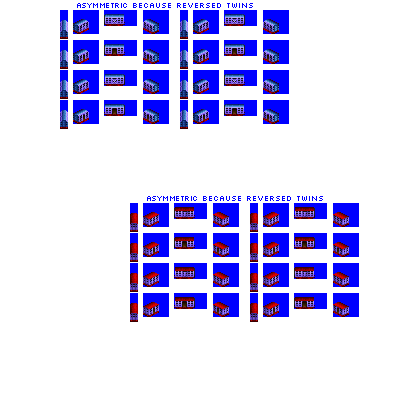
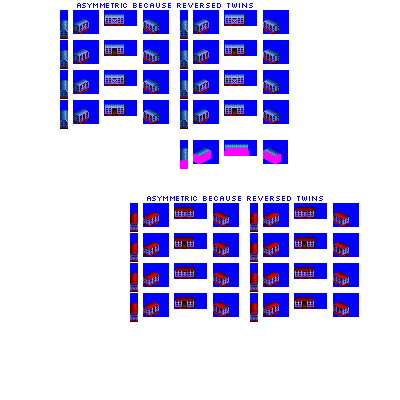
Change: WIP to add express livestock cars

diff --git a/src/vehicles/pony/livestock_express_cars_pony.py b/src/vehicles/pony/livestock_express_cars_pony.py
@@ -1,0 +1,153 @@
+from train.factory import ModelDef
+
+
+def main(**kwargs):
+    result = []
+
+    # --------------- standard gauge ---------------------------------------------------------------
+
+    model_def = ModelDef(
+        class_name="LivestockExpressCar",
+        base_numeric_id=26370,
+        gen=1,
+        subtype="A",
+        sprites_complete=False,
+    )
+
+    model_def.add_unit_def(
+        class_name="ExpressCarUnit",
+        suppress_roof_sprite=True,  # non-standard roof for this wagon
+        chassis="2_axle_filled_16px",
+    )
+
+    result.append(model_def)
+
+    model_def = ModelDef(
+        class_name="LivestockExpressCar",
+        base_numeric_id=33000,
+        gen=2,
+        subtype="A",
+        sprites_complete=False,
+    )
+
+    model_def.add_unit_def(
+        class_name="ExpressCarUnit",
+        suppress_roof_sprite=True,  # non-standard roof for this wagon
+        chassis="2_axle_filled_16px",
+    )
+
+    result.append(model_def)
+
+    model_def = ModelDef(
+        class_name="LivestockExpressCar",
+        base_numeric_id=30610,
+        gen=2,
+        subtype="B",
+        sprites_complete=False,
+    )
+
+    model_def.add_unit_def(
+        class_name="ExpressCarUnit",
+        suppress_roof_sprite=True,  # non-standard roof for this wagon
+        chassis="3_axle_solid_express_24px",
+    )
+
+    result.append(model_def)
+
+    model_def = ModelDef(
+        class_name="LivestockExpressCar",
+        base_numeric_id=31060,
+        gen=3,
+        subtype="A",
+        sprites_complete=False,
+    )
+
+    model_def.add_unit_def(
+        class_name="ExpressCarUnit",
+        suppress_roof_sprite=True,  # non-standard roof for this wagon
+        chassis="2_axle_filled_16px",
+    )
+
+    result.append(model_def)
+
+    model_def = ModelDef(
+        class_name="LivestockExpressCar",
+        base_numeric_id=31810,
+        gen=3,
+        subtype="B",
+        sprites_complete=False,
+    )
+
+    model_def.add_unit_def(
+        class_name="ExpressCarUnit",
+        suppress_roof_sprite=True,  # non-standard roof for this wagon
+        chassis="3_axle_solid_express_24px",
+    )
+
+    result.append(model_def)
+
+    model_def = ModelDef(
+        class_name="LivestockExpressCar",
+        base_numeric_id=31960,
+        gen=4,
+        subtype="A",
+        sprites_complete=False,
+    )
+
+    model_def.add_unit_def(
+        class_name="ExpressCarUnit",
+        suppress_roof_sprite=True,  # non-standard roof for this wagon
+        chassis="2_axle_filled_16px",
+    )
+
+    result.append(model_def)
+
+    model_def = ModelDef(
+        class_name="LivestockExpressCar",
+        base_numeric_id=32090,
+        gen=4,
+        subtype="B",
+        sprites_complete=False,
+    )
+
+    model_def.add_unit_def(
+        class_name="ExpressCarUnit",
+        suppress_roof_sprite=True,  # non-standard roof for this wagon
+        chassis="2_axle_filled_24px",
+    )
+
+    result.append(model_def)
+
+    model_def = ModelDef(
+        class_name="LivestockExpressCar",
+        base_numeric_id=34610,
+        gen=5,
+        subtype="B",
+        sprites_complete=False,
+    )
+
+    model_def.add_unit_def(
+        class_name="ExpressCarUnit",
+        suppress_roof_sprite=True,  # non-standard roof for this wagon
+        chassis="2_axle_1cc_filled_24px",
+    )
+
+    result.append(model_def)
+
+    model_def = ModelDef(
+        class_name="LivestockExpressCar",
+        base_numeric_id=32130,
+        gen=5,
+        subtype="C",
+        sprites_complete=False,
+    )
+
+    model_def.add_unit_def(
+        class_name="ExpressCarUnit",
+        suppress_roof_sprite=True,  # non-standard roof for this wagon
+        chassis="4_axle_1cc_filled_32px",
+    )
+
+    result.append(model_def)
+
+    return result

diff --git a/src/train/model_type.py b/src/train/model_type.py
@@ -5677,7 +5677,7 @@ class KaolinHopperCar(CarModelTypeBase):
         )
 
 
-class LivestockCar(CarModelTypeBase):
+class LivestockCarBase(CarModelTypeBase):
     """
     Specialist transporter for livestock.
     """
@@ -5694,8 +5694,6 @@ class LivestockCar(CarModelTypeBase):
         "COMPLEMENT_COMPANY_COLOUR",
         "COMPANY_COLOUR",
     ]
-
-    model_id_root = "livestock_car"
 
     def __init__(self, **kwargs):
         super().__init__(**kwargs)
@@ -5719,6 +5717,36 @@ class LivestockCar(CarModelTypeBase):
             weathered_states=weathered_states,
             catalogue_entry=self.catalogue_entry,
         )
+
+
+class LivestockCar(LivestockCarBase):
+    """
+    Specialist transporter for livestock.
+    """
+
+    model_id_root = "livestock_car"
+
+    def __init__(self, **kwargs):
+        super().__init__(**kwargs)
+
+
+class LivestockExpressCar(LivestockCarBase):
+    """
+    Specialist express transporter for livestock.
+    """
+
+    model_id_root = "livestock_express_car"
+
+    def __init__(self, **kwargs):
+        super().__init__(**kwargs)
+        self.speed_class = "express"
+        # adjust weight factor because express car freight capacity is 1/2 of other wagons, but weight should be same
+        self.weight_factor = polar_fox.constants.mail_multiplier
+        # keep matched to MailCar
+        self.floating_run_cost_multiplier = 2.33
+        self._intro_year_days_offset = global_constants.intro_month_offsets_by_role[
+            "food_wagons"
+        ]
 
 
 class LogCar(CarModelTypeBase):

diff --git a/src/rosters/pony.py b/src/rosters/pony.py
@@ -330,6 +330,7 @@ wagon_module_names_with_roster_ids = {
     "lime_covered_hopper_cars_type_2": "pony",
     "lime_covered_hopper_cars_type_3": "pony",
     "livestock_cars": "pony",
+    "livestock_express_cars": "pony",
     "log_cars": "pony",
     "low_floor_intermodal_cars": "pony",
     "low_floor_automobile_cars": "pony",

diff --git a/src/global_constants.py b/src/global_constants.py
@@ -37,6 +37,7 @@ wagon_module_name_stems = [
     "food_express_tank_cars_type_2",
     "food_express_tank_cars_randomised",
     "food_express_liquid_combos",
+    "livestock_express_cars",
     "livestock_cars",
     "farm_product_hopper_cars_type_1",
     "farm_product_hopper_cars_type_2",
